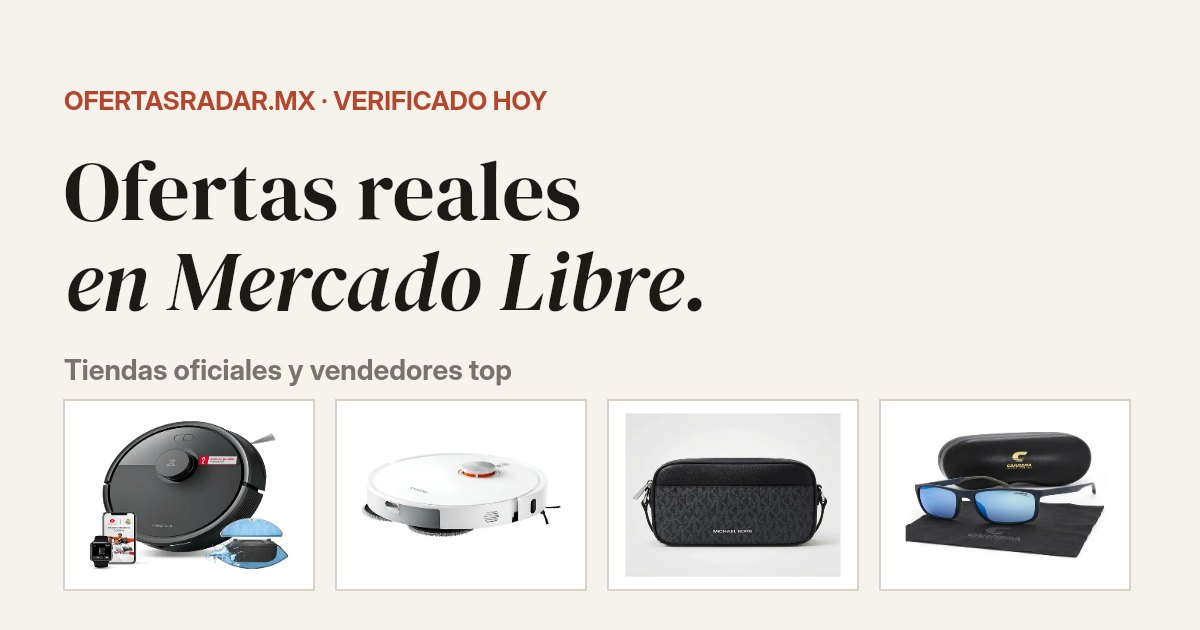
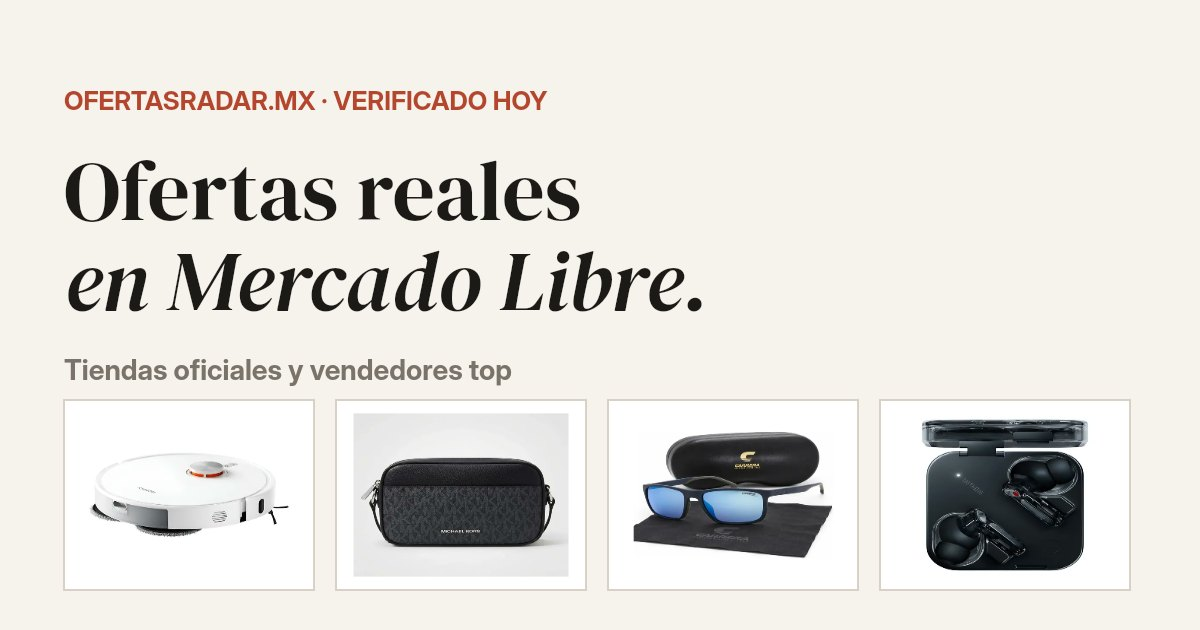
Ofertas al 6 nov 2026 (51 ofertas)

diff --git a/index.html b/index.html
@@ -6,7 +6,7 @@
 <title>Ofertas Radar MX · ofertas verificadas en Mercado Libre</title>
 <meta name="description" content="Ofertas reales de Mercado Libre, verificadas el 6 nov 2026: tiendas oficiales y vendedores top en belleza, hogar y tech.">
 <meta property="og:title" content="Ofertas Radar MX · ofertas verificadas en Mercado Libre">
-<meta property="og:description" content="Ofertas de Mercado Libre verificadas el 6 nov 2026. Hasta -68%.">
+<meta property="og:description" content="Ofertas de Mercado Libre verificadas el 6 nov 2026. Hasta -58%.">
 <meta property="og:image" content="https://fabiannabi.github.io/ofertasradar/og.jpg">
 <meta property="og:url" content="https://fabiannabi.github.io/ofertasradar/">
 <meta property="og:type" content="website">
@@ -153,13 +153,13 @@ footer a { font-weight: 700; color: var(--tinta); }
   <div class="hero">
     <div>
       <p class="vivo"><i></i>Verificado el 6 nov 2026</p>
-      <h1><span class="hasta">Hasta</span><span class="num">-68<small>%</small></span>en marcas que <em>ya conoces.</em></h1>
+      <h1><span class="hasta">Hasta</span><span class="num">-58<small>%</small></span>en marcas que <em>ya conoces.</em></h1>
       <p class="sub">Ofertas de Mercado Libre revisadas a mano, de tiendas oficiales y vendedores top.</p>
       <ul class="garantias"><li>Tiendas oficiales</li><li>Precio del día</li><li>Compra protegida de Mercado Libre</li></ul>
       <a class="ver" href="#megas">Ver las ofertas ↓</a>
     </div>
     <div class="radar"><button type="button" class="blip" style="left:72%;top:26%" aria-label="Ver una oferta al azar"></button><button type="button" class="blip b2" style="left:24%;top:64%" aria-label="Ver una oferta al azar"></button><button type="button" class="blip b3" style="left:80%;top:70%" aria-label="Ver una oferta al azar"></button><button type="button" class="blip b4" style="left:34%;top:20%" aria-label="Ver una oferta al azar"></button><p class="pista">Toca un punto: oferta al azar</p><div class="centro" aria-hidden="true"><img src="logo.png" alt="" width="192" height="192"></div></div>
-    <div class="cinta" aria-hidden="true"><div><span>Vichy</span><span>Samsung</span><span>Motorola</span><span>Xiaomi</span><span>Lenovo</span><span>Oppo</span><span>Roborock</span><span>Carolina Herrera</span><span>Michael Kors</span><span>Coach</span><span>Guess</span><span>Casio</span><span>Carrera</span><span>Oakley</span><span>Hawkers</span><span>American Tourister</span><span>Sonos</span><span>Lattafa</span><span>Nothing</span><span>Dolce &amp; Gabbana</span><span>Ariana Grande</span><span>Versace</span><span>Azzaro</span><span>JBL</span><span>Huawei</span><span>Vichy</span><span>Samsung</span><span>Motorola</span><span>Xiaomi</span><span>Lenovo</span><span>Oppo</span><span>Roborock</span><span>Carolina Herrera</span><span>Michael Kors</span><span>Coach</span><span>Guess</span><span>Casio</span><span>Carrera</span><span>Oakley</span><span>Hawkers</span><span>American Tourister</span><span>Sonos</span><span>Lattafa</span><span>Nothing</span><span>Dolce &amp; Gabbana</span><span>Ariana Grande</span><span>Versace</span><span>Azzaro</span><span>JBL</span><span>Huawei</span></div></div>
+    <div class="cinta" aria-hidden="true"><div><span>Vichy</span><span>Samsung</span><span>Motorola</span><span>Xiaomi</span><span>Lenovo</span><span>Oppo</span><span>Carolina Herrera</span><span>Michael Kors</span><span>Coach</span><span>Guess</span><span>Casio</span><span>Carrera</span><span>Oakley</span><span>Hawkers</span><span>American Tourister</span><span>Sonos</span><span>Lattafa</span><span>Nothing</span><span>Dolce &amp; Gabbana</span><span>Ariana Grande</span><span>Versace</span><span>Azzaro</span><span>JBL</span><span>Huawei</span><span>Vichy</span><span>Samsung</span><span>Motorola</span><span>Xiaomi</span><span>Lenovo</span><span>Oppo</span><span>Carolina Herrera</span><span>Michael Kors</span><span>Coach</span><span>Guess</span><span>Casio</span><span>Carrera</span><span>Oakley</span><span>Hawkers</span><span>American Tourister</span><span>Sonos</span><span>Lattafa</span><span>Nothing</span><span>Dolce &amp; Gabbana</span><span>Ariana Grande</span><span>Versace</span><span>Azzaro</span><span>JBL</span><span>Huawei</span></div></div>
   </div>
   <a class="canal" href="https://whatsapp.com/channel/0029VbDg7woLtOjGkAVMZi3C" target="_blank" rel="noopener">
     <svg viewBox="0 0 32 32" aria-hidden="true"><circle cx="16" cy="16" r="16" fill="#25D366"/><path fill="#fff" d="M16 7.2a8.7 8.7 0 0 0-7.5 13.2L7.3 25l4.7-1.2A8.7 8.7 0 1 0 16 7.2Zm0 15.9c-1.3 0-2.6-.4-3.7-1l-.3-.2-2.8.7.8-2.7-.2-.3a7.2 7.2 0 1 1 6.2 3.5Zm4-5.4c-.2-.1-1.3-.6-1.5-.7-.2-.1-.3-.1-.5.1l-.7.9c-.1.1-.3.2-.5.1a5.9 5.9 0 0 1-2.9-2.6c-.2-.4.2-.4.6-1.2.1-.1 0-.3 0-.4l-.7-1.6c-.2-.4-.4-.4-.5-.4h-.4a.8.8 0 0 0-.6.3 2.5 2.5 0 0 0-.8 1.9c0 1.1.8 2.2.9 2.3.1.2 1.6 2.4 3.9 3.4 1.4.6 2 .7 2.7.6.4-.1 1.3-.5 1.5-1.1.2-.5.2-1 .1-1.1l-.4-.2Z"/></svg>
@@ -183,17 +183,6 @@ footer a { font-weight: 700; color: var(--tinta); }
     <p class="pie">Precio al 6 nov · puede cambiar</p>
   </div>
 </article>
-<article class="card mega" data-cat="casa">
-  <a class="ph" href="https://meli.la/2t8bUKM" target="_blank" rel="sponsored noopener"><img src="img/roborock-q7-l5.jpg" alt="Robot aspiradora y trapeador Roborock Q7 L5, 8,000 Pa" loading="lazy" width="480" height="480"><span class="tag">-68%</span></a>
-  <div class="info">
-    <p class="marca">Roborock <span class="of">✓ Oficial</span></p>
-    <h3>Robot aspiradora y trapeador Roborock Q7 L5, 8,000 Pa</h3>
-    <p class="precio"><b>$3,799</b><s>$11,999</s></p>
-    <p class="meta">★ 4.8 · +1000 vendidos</p>
-    <a class="btn" href="https://meli.la/2t8bUKM" target="_blank" rel="sponsored noopener">Ver en Mercado Libre</a>
-    <p class="pie">Precio al 6 nov · puede cambiar</p>
-  </div>
-</article>
 <article class="card mega" data-cat="belleza">
   <a class="ph" href="https://meli.la/22GPoSg" target="_blank" rel="sponsored noopener"><img src="img/ch-la-bomba.jpg" alt="Perfume Carolina Herrera La Bomba EDP 80 ml" loading="lazy" width="480" height="480"><span class="tag">-42%</span></a>
   <div class="info">
@@ -213,47 +202,47 @@ footer a { font-weight: 700; color: var(--tinta); }
   <nav class="chips" aria-label="Categorías"><button class="chip on" data-f="todo">Todo</button><button class="chip" data-f="belleza">Belleza</button><button class="chip" data-f="casa">Hogar</button><button class="chip" data-f="tech">Tech</button><button class="chip" data-f="moda">Moda</button></nav>
   <section class="grid" id="ofertas">
 <article class="card" data-cat="belleza">
-  <a class="ph" href="https://meli.la/1dM9CS7" target="_blank" rel="sponsored noopener"><img src="img/vichy-mineral89-crema.jpg" alt="Vichy Minéral 89 crema hidratante 72h con ácido hialurónico" loading="lazy" width="480" height="480"><span class="tag">-44%</span></a>
+  <a class="ph" href="https://meli.la/1dM9CS7" target="_blank" rel="sponsored noopener"><img src="img/vichy-mineral89-crema.jpg" alt="Vichy Minéral 89 crema hidratante 72h con ácido hialurónico" loading="lazy" width="480" height="480"><span class="tag">-37%</span></a>
   <div class="info">
     <p class="marca">Vichy <span class="of">✓ Oficial</span></p>
     <h3>Vichy Minéral 89 crema hidratante 72h con ácido hialurónico</h3>
-    <p class="precio"><b>$380</b><s>$679</s></p>
+    <p class="precio"><b>$429</b><s>$679</s></p>
     <p class="meta">★ 4.8 · +50 mil vendidos</p>
     <a class="btn" href="https://meli.la/1dM9CS7" target="_blank" rel="sponsored noopener">Ver oferta →</a>
-    <p class="pie">Precio al 6 nov · puede cambiar</p>
+    <p class="pie">Precio al 7 nov · puede cambiar</p>
   </div>
 </article>
 <article class="card" data-cat="belleza">
-  <a class="ph" href="https://meli.la/2m6CxbA" target="_blank" rel="sponsored noopener"><img src="img/vichy-uvaqua.jpg" alt="Protector solar Vichy Capital Soleil UV-Aqua tono light 50 ml" loading="lazy" width="480" height="480"><span class="tag">-39%</span></a>
+  <a class="ph" href="https://meli.la/2m6CxbA" target="_blank" rel="sponsored noopener"><img src="img/vichy-uvaqua.jpg" alt="Protector solar Vichy Capital Soleil UV-Aqua tono light 50 ml" loading="lazy" width="480" height="480"><span class="tag">-36%</span></a>
   <div class="info">
     <p class="marca">Vichy <span class="of">✓ Oficial</span></p>
     <h3>Protector solar Vichy Capital Soleil UV-Aqua tono light 50 ml</h3>
-    <p class="precio"><b>$361</b><s>$599</s></p>
+    <p class="precio"><b>$383</b><s>$599</s></p>
     <p class="meta">★ 4.9 · +100 vendidos</p>
     <a class="btn" href="https://meli.la/2m6CxbA" target="_blank" rel="sponsored noopener">Ver oferta →</a>
-    <p class="pie">Precio al 6 nov · puede cambiar</p>
+    <p class="pie">Precio al 7 nov · puede cambiar</p>
   </div>
 </article>
 <article class="card" data-cat="belleza">
-  <a class="ph" href="https://meli.la/2WRjgLA" target="_blank" rel="sponsored noopener"><img src="img/vichy-normaderm-probio.jpg" alt="Sérum Vichy Normaderm Probio-BHA anti imperfecciones 30 ml" loading="lazy" width="480" height="480"><span class="tag">-35%</span></a>
+  <a class="ph" href="https://meli.la/2WRjgLA" target="_blank" rel="sponsored noopener"><img src="img/vichy-normaderm-probio.jpg" alt="Sérum Vichy Normaderm Probio-BHA anti imperfecciones 30 ml" loading="lazy" width="480" height="480"><span class="tag">-33%</span></a>
   <div class="info">
     <p class="marca">Vichy <span class="of">✓ Oficial</span></p>
     <h3>Sérum Vichy Normaderm Probio-BHA anti imperfecciones 30 ml</h3>
-    <p class="precio"><b>$613</b><s>$949</s></p>
+    <p class="precio"><b>$639</b><s>$949</s></p>
     <p class="meta">★ 4.7 · +5 mil vendidos</p>
     <a class="btn" href="https://meli.la/2WRjgLA" target="_blank" rel="sponsored noopener">Ver oferta →</a>
-    <p class="pie">Precio al 6 nov · puede cambiar</p>
+    <p class="pie">Precio al 7 nov · puede cambiar</p>
   </div>
 </article>
 <article class="card" data-cat="belleza">
-  <a class="ph" href="https://meli.la/26Na3D6" target="_blank" rel="sponsored noopener"><img src="img/vichy-mineral89-ojos.jpg" alt="Reparador para ojos Vichy Minéral 89 Fortifier 15 ml" loading="lazy" width="480" height="480"><span class="tag">-39%</span></a>
+  <a class="ph" href="https://meli.la/26Na3D6" target="_blank" rel="sponsored noopener"><img src="img/vichy-mineral89-ojos.jpg" alt="Reparador para ojos Vichy Minéral 89 Fortifier 15 ml" loading="lazy" width="480" height="480"><span class="tag">-37%</span></a>
   <div class="info">
     <p class="marca">Vichy <span class="of">✓ Oficial</span></p>
     <h3>Reparador para ojos Vichy Minéral 89 Fortifier 15 ml</h3>
-    <p class="precio"><b>$451</b><s>$749</s></p>
+    <p class="precio"><b>$474</b><s>$749</s></p>
     <p class="meta">★ 4.8 · +10 mil vendidos</p>
     <a class="btn" href="https://meli.la/26Na3D6" target="_blank" rel="sponsored noopener">Ver oferta →</a>
-    <p class="pie">Precio al 6 nov · puede cambiar</p>
+    <p class="pie">Precio al 7 nov · puede cambiar</p>
   </div>
 </article>
 <article class="card" data-cat="belleza">
@@ -268,14 +257,14 @@ footer a { font-weight: 700; color: var(--tinta); }
   </div>
 </article>
 <article class="card" data-cat="belleza">
-  <a class="ph" href="https://meli.la/1YufsAC" target="_blank" rel="sponsored noopener"><img src="img/vichy-neovadiol-noche.jpg" alt="Crema de noche Vichy Neovadiol anti-edad post-menopausia 50 ml" loading="lazy" width="480" height="480"><span class="tag">-48%</span></a>
+  <a class="ph" href="https://meli.la/1YufsAC" target="_blank" rel="sponsored noopener"><img src="img/vichy-neovadiol-noche.jpg" alt="Crema de noche Vichy Neovadiol anti-edad post-menopausia 50 ml" loading="lazy" width="480" height="480"><span class="tag">-37%</span></a>
   <div class="info">
     <p class="marca">Vichy <span class="of">✓ Oficial</span></p>
     <h3>Crema de noche Vichy Neovadiol anti-edad post-menopausia 50 ml</h3>
-    <p class="precio"><b>$739</b><s>$1,449</s></p>
+    <p class="precio"><b>$916</b><s>$1,449</s></p>
     <p class="meta">★ 4.8 · +1000 vendidos</p>
     <a class="btn" href="https://meli.la/1YufsAC" target="_blank" rel="sponsored noopener">Ver oferta →</a>
-    <p class="pie">Precio al 6 nov · puede cambiar</p>
+    <p class="pie">Precio al 7 nov · puede cambiar</p>
   </div>
 </article>
 <article class="card" data-cat="tech">
